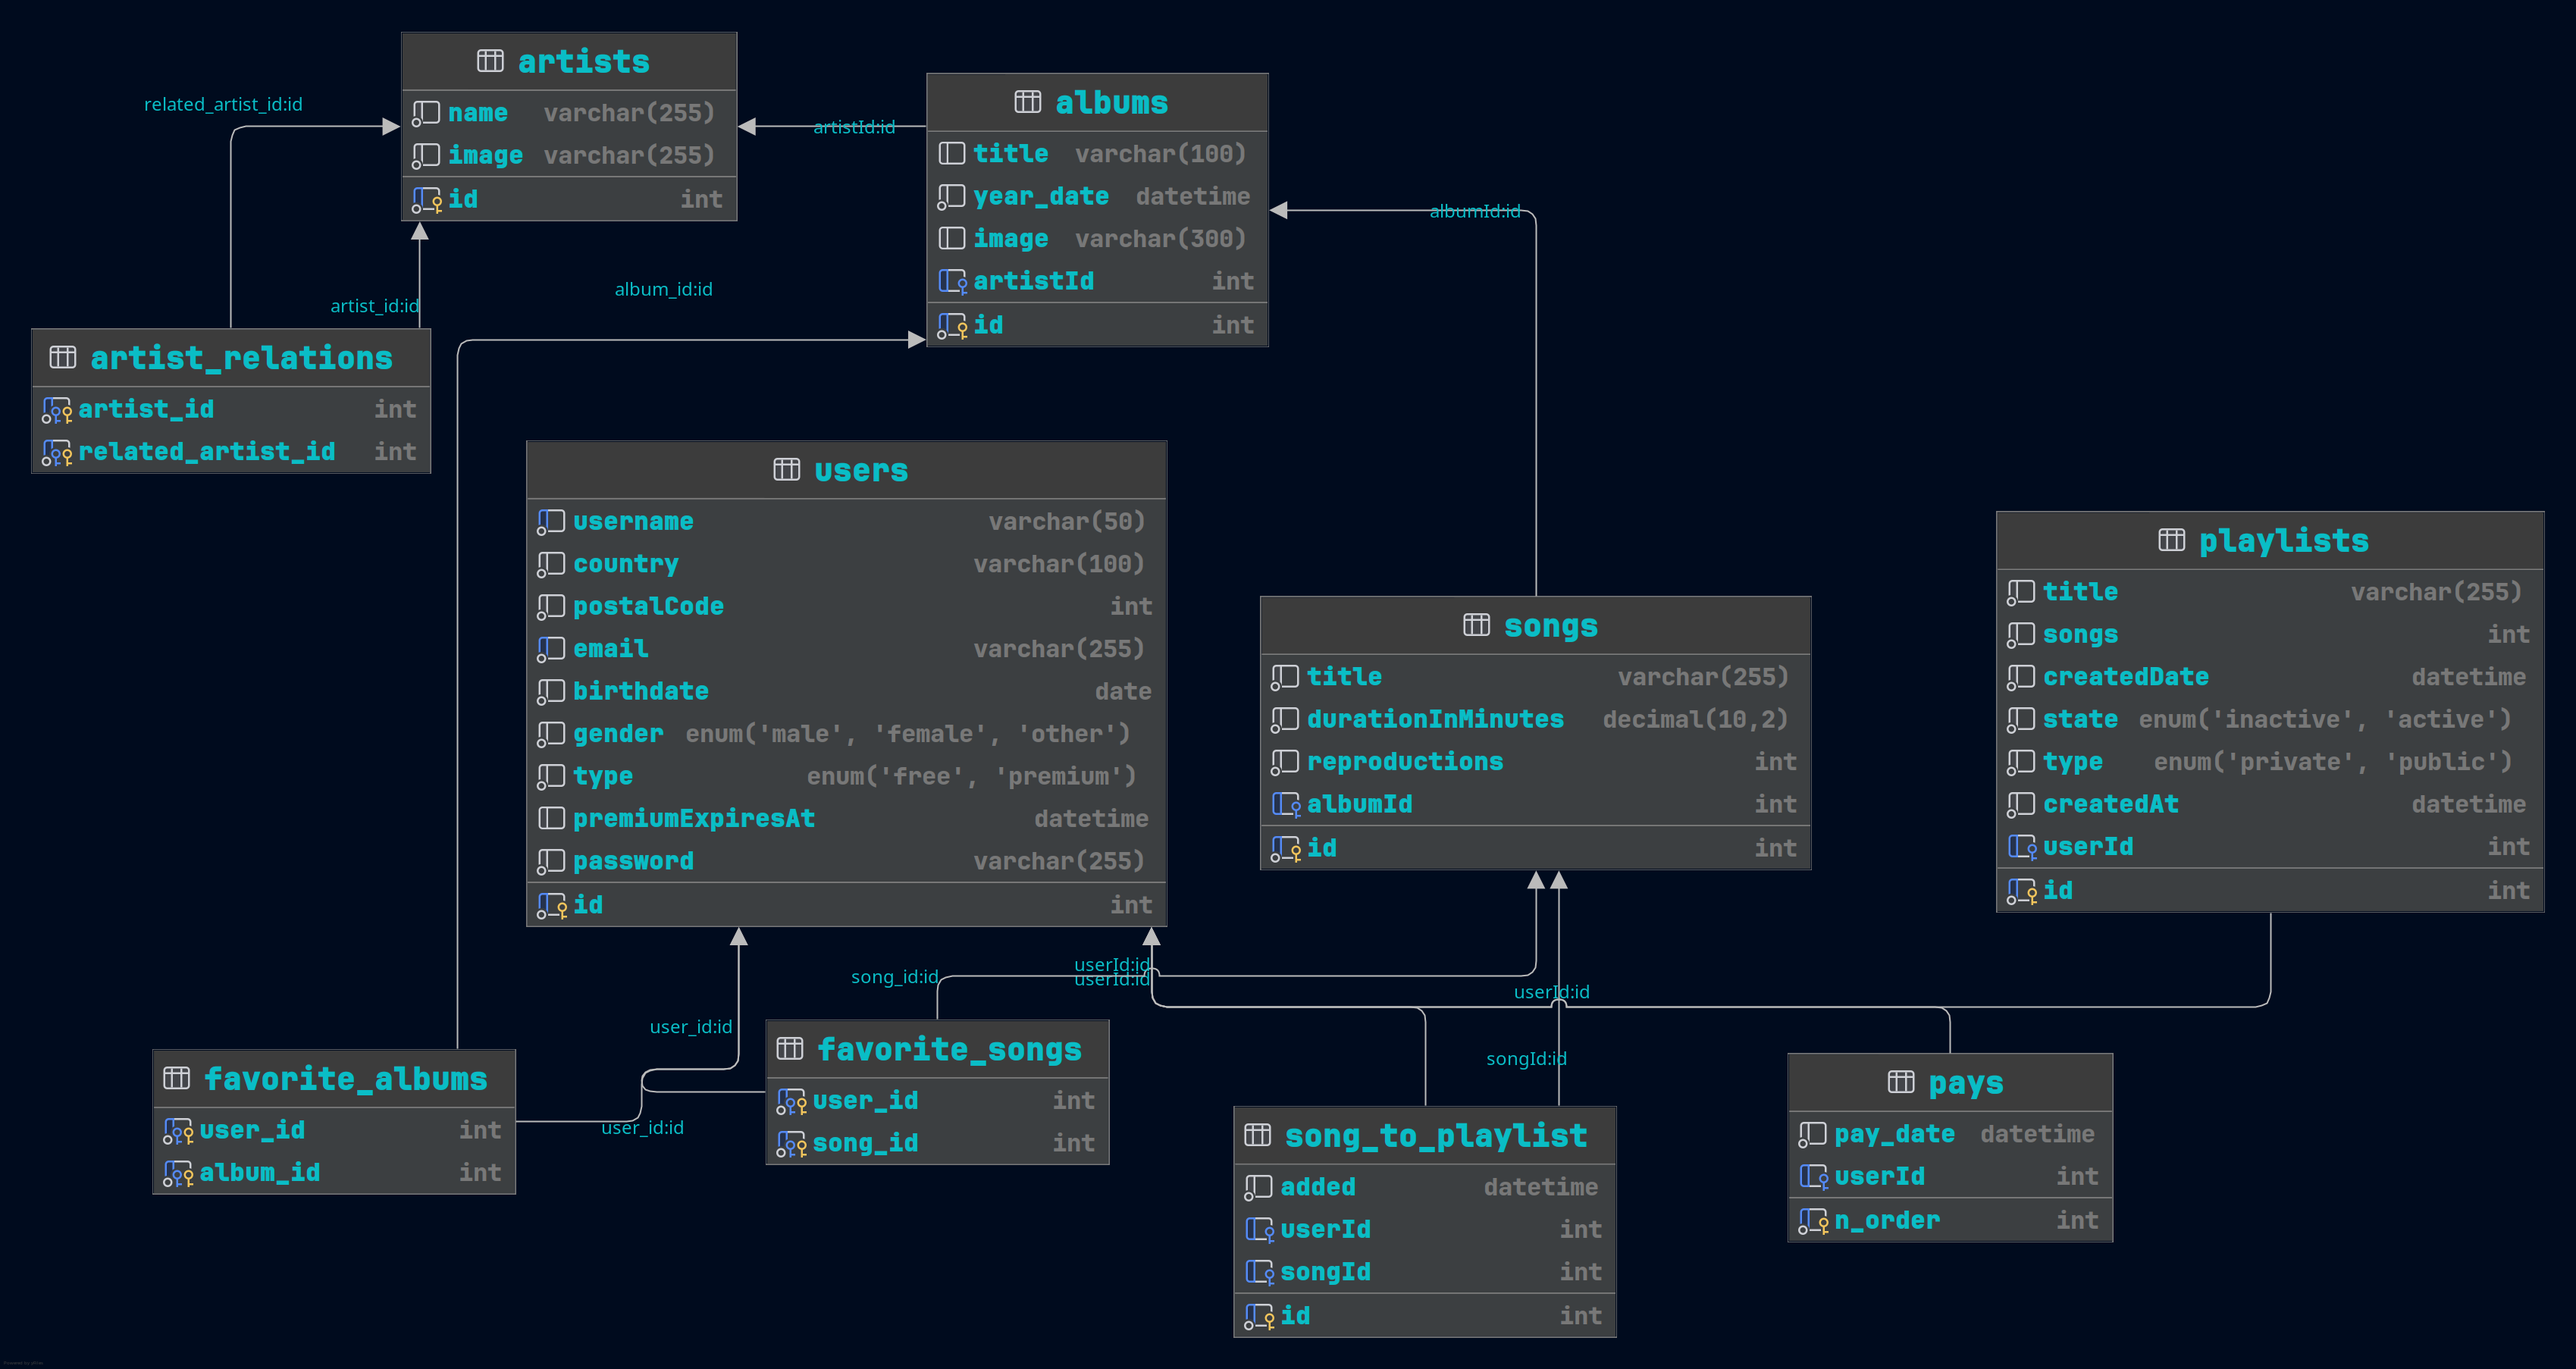
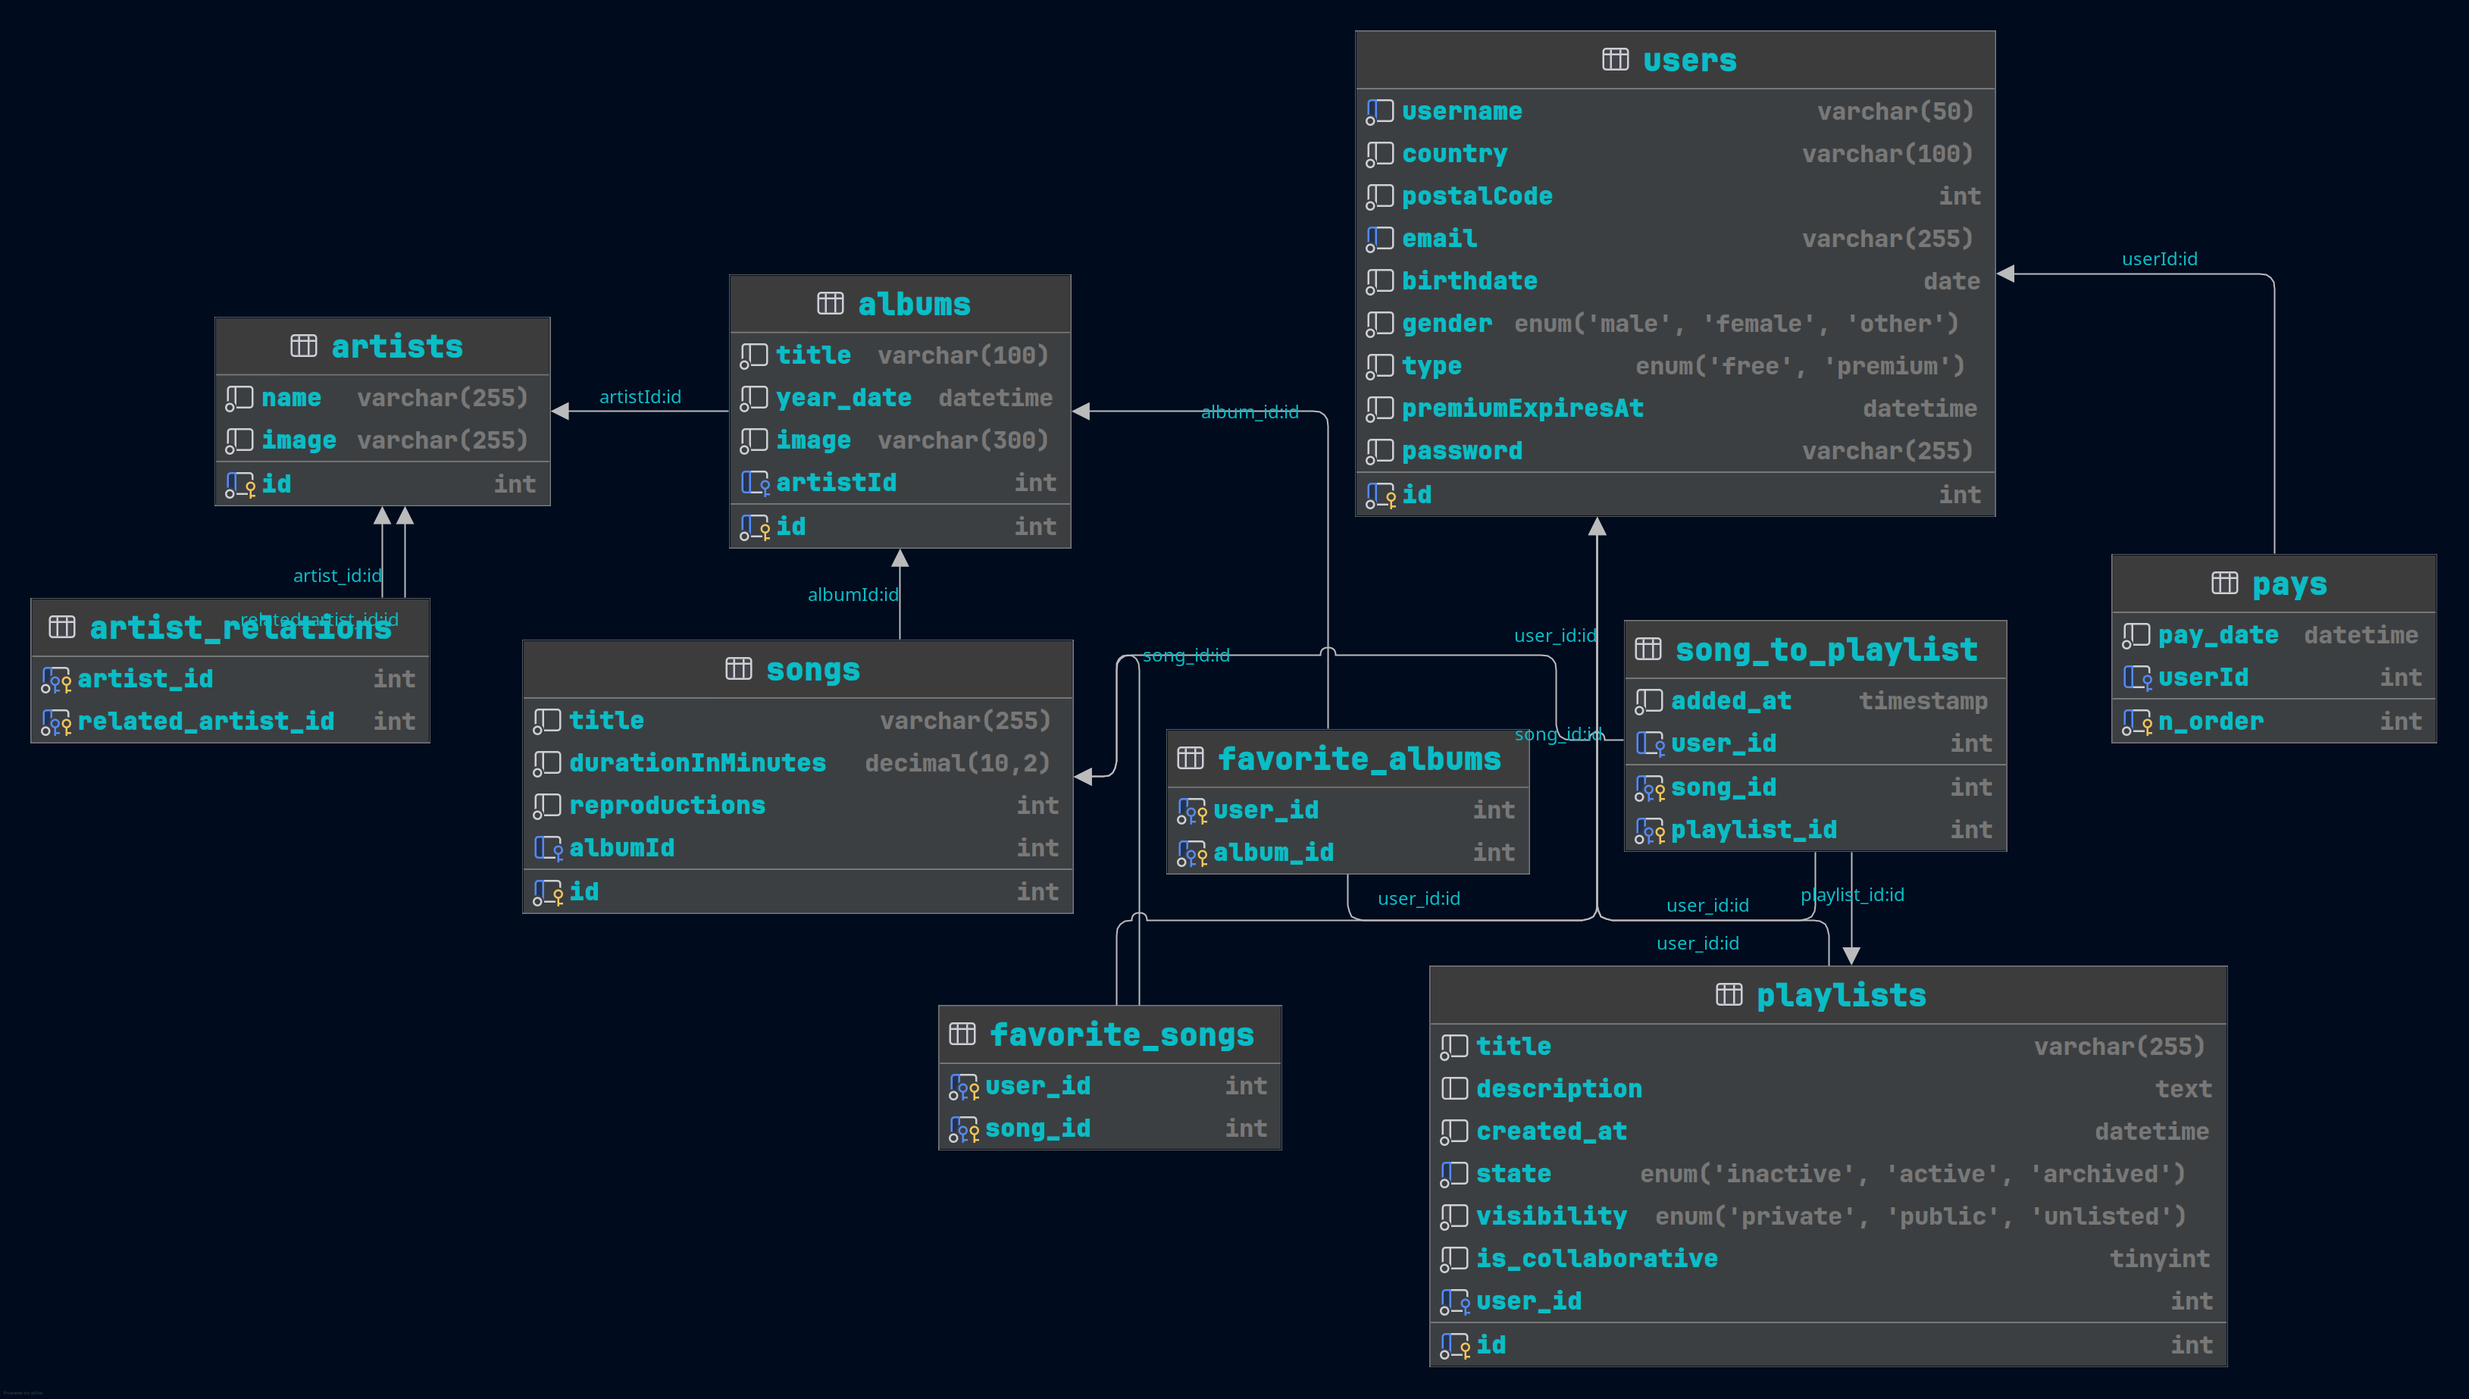
update name columns db

diff --git a/src/data/entity/playlist.entity.ts b/src/data/entity/playlist.entity.ts
@@ -1,18 +1,22 @@
 /* eslint-disable prettier/prettier */
-import { Column, Entity, ManyToOne, PrimaryGeneratedColumn } from 'typeorm';
+import { Column, Entity, ManyToOne, OneToMany, PrimaryGeneratedColumn, Index, JoinColumn } from 'typeorm';
 import { User } from './user.entity';
+import { SongToPlaylist } from './song_to_playlist.entity';
 
-export enum State {
+export enum PlaylistState {
     INACTIVE = 'inactive',
     ACTIVE = 'active',
+    ARCHIVED = 'archived'
 }
 
-export enum Type {
+export enum PlaylistVisibility {
     PRIVATE = 'private',
     PUBLIC = 'public',
+    UNLISTED = 'unlisted'
 }
 
 @Entity('playlists')
+@Index(['createdBy', 'state'])
 export class Playlist {
     @PrimaryGeneratedColumn('increment')
     id: number;
@@ -20,22 +24,26 @@ export class Playlist {
     @Column({ type: 'varchar', length: 255, nullable: false })
     title: string;
 
-    @Column({ type: 'int', nullable: false })
-    songs: number;
+    @Column({ type: 'text', nullable: true })
+    description: string | null;
 
-    @Column({ type: 'datetime', nullable: false, default: () => 'CURRENT_TIMESTAMP' })
-    createdDate: Date;
-
-    @Column({ type: 'enum', enum: State, default: State.ACTIVE })
-    state: State;
-
-    @Column({ type: 'enum', enum: Type, default: Type.PUBLIC })
-    type: string;
-
-    @Column({ type: 'datetime', default: () => 'CURRENT_TIMESTAMP' })
+    @Column({name:'created_at', type: 'datetime', default: () => 'CURRENT_TIMESTAMP' })
     createdAt: Date;
 
-    @ManyToOne(() => User, (user) => user.playlists)
-    user: User;
+    @Column({ type: 'enum', enum: PlaylistState, default: PlaylistState.ACTIVE })
+    state: PlaylistState;
+
+    @Column({ type: 'enum', enum: PlaylistVisibility, default: PlaylistVisibility.PUBLIC })
+    visibility: PlaylistVisibility;
+
+    @Column({ name: 'is_collaborative', type: 'boolean', default: false, })
+    isCollaborative: boolean;
+
+    @ManyToOne(() => User, (user) => user.playlists, { onDelete: 'CASCADE', nullable: false })
+    @JoinColumn({ name: 'user_id' })
+    createdBy: User;
+
+    @OneToMany(() => SongToPlaylist, (songToPlaylist) => songToPlaylist.playlist, { cascade: true })
+    songs: SongToPlaylist[];
 
 }

diff --git a/src/data/entity/song_to_playlist.entity.ts b/src/data/entity/song_to_playlist.entity.ts
@@ -1,22 +1,31 @@
 /* eslint-disable prettier/prettier */
-import { Column, Entity, ManyToOne, PrimaryGeneratedColumn } from "typeorm";
-import { User } from "./user.entity";
+import { Column, Entity, JoinColumn, ManyToOne, PrimaryColumn } from "typeorm";
 import { Song } from "./song.entity";
-
+import { Playlist } from "./playlist.entity";
+import { User } from "./user.entity";
 
 @Entity()
 export class SongToPlaylist {
 
-    @PrimaryGeneratedColumn('increment')
-    id: number;
+    @PrimaryColumn({ name: 'song_id' })
+    songId!: number;
 
-    @ManyToOne(() => User, (user) => user.songToPlaylist)
-    user: User;
+    @PrimaryColumn({ name: 'playlist_id' })
+    playlistId!: number;
 
-    @ManyToOne(() => Song, (song) => song.songToPlaylist)
-    song: Song;
+    @ManyToOne(() => Song, (song) => song.songToPlaylist, { onDelete: 'CASCADE', nullable: false })
+    @JoinColumn({ name: 'song_id', referencedColumnName: 'id' })
+    song!: Song | null;
 
-    @Column({ type: 'datetime', default: () => 'CURRENT_TIMESTAMP' })
-    added: Date;
+    @ManyToOne(() => Playlist, (playlist) => playlist.songs, { onDelete: 'CASCADE', nullable: false })
+    @JoinColumn({ name: 'playlist_id', referencedColumnName: 'id' })
+    playlist!: Playlist | null;
+
+    @ManyToOne(() => User, { onDelete: 'SET NULL', nullable: true })
+    @JoinColumn({ name: 'user_id' })
+    addedBy!: User | null;
+
+    @Column({ name: 'added_at', type: 'timestamp', default: () => 'CURRENT_TIMESTAMP' })
+    addedAt!: Date;
 
 }

diff --git a/src/data/entity/user.entity.ts b/src/data/entity/user.entity.ts
@@ -44,7 +44,7 @@ export class User {
     @Column({ type: 'enum', enum: UserRole, default: UserRole.FREE })
     type: UserRole
 
-    @Column({ type: 'datetime', default: null, nullable: true })
+    @Column({ type: 'datetime', default: null, nullable: false })
     premiumExpiresAt: Date;
 
     @Column({ type: 'varchar', select: false })
@@ -58,19 +58,19 @@ export class User {
         }
     }
 
-    @OneToMany(() => Playlist, (playlists) => playlists.user)
+    @OneToMany(() => Playlist, (playlists) => playlists.createdBy, { cascade: true })
     playlists: Playlist[];
 
-    @OneToMany(() => SongToPlaylist, (songToPlaylist) => songToPlaylist.user)
+    @OneToMany(() => SongToPlaylist, (songToPlaylist) => songToPlaylist.addedBy, { cascade: true })
     songToPlaylist: SongToPlaylist[];
 
-    @OneToMany(() => FavoriteSongs, (favoriteSongs) => favoriteSongs.user)
+    @OneToMany(() => FavoriteSongs, (favoriteSongs) => favoriteSongs.user, { cascade: true })
     favoriteSongs: FavoriteSongs[];
 
-    @OneToMany(() => FavoriteSongs, (favoriteSongs) => favoriteSongs.song)
+    @OneToMany(() => FavoriteSongs, (favoriteSongs) => favoriteSongs.user, { cascade: true })
     favoriteAlbums: FavoriteSongs[];
 
-    @OneToMany(() => Pays, (pays) => pays.user)
+    @OneToMany(() => Pays, (pays) => pays.user, { cascade: true })
     pays: Pays[];
 
 }

diff --git a/src/data/entity/album.entity.ts b/src/data/entity/album.entity.ts
@@ -11,23 +11,23 @@ export class Album {
     @PrimaryGeneratedColumn('increment')
     id: number;
 
-    @Column({ type: 'varchar', length: 100, nullable: true })
+    @Column({ type: 'varchar', length: 100, nullable: false })
     title: string;
 
 
     @Column({ type: 'datetime', default: () => 'CURRENT_TIMESTAMP' })
     year_date: Date;
 
-    @Column({ type: 'varchar', length: 300, nullable: true })
+    @Column({ type: 'varchar', length: 300, nullable: false })
     image: string;
 
-    @ManyToOne(() => Artist, (artist) => artist.albums)
+    @ManyToOne(() => Artist, (artist) => artist.albums, { onDelete: 'CASCADE', nullable: true })
     artist: Artist;
 
-    @OneToMany(() => Song, (song) => song.album)
+    @OneToMany(() => Song, (song) => song.album, { cascade: true })
     songs: Song[];
 
-    @OneToMany(() => FavoriteAlbums, (favoriteAlbums) => favoriteAlbums.album)
+    @OneToMany(() => FavoriteAlbums, (favoriteAlbums) => favoriteAlbums.album, { cascade: true })
     favoriteAlbums: FavoriteAlbums[];
 
 }

diff --git a/src/data/entity/song.entity.ts b/src/data/entity/song.entity.ts
@@ -9,21 +9,21 @@ export class Song {
     @PrimaryGeneratedColumn('increment')
     id: number;
 
-    @Column({ type: 'varchar', length: 255 })
+    @Column({ type: 'varchar', length: 255, nullable: false })
     title: string;
 
-    @Column({ type: 'decimal', precision: 10, scale: 2 })
+    @Column({ type: 'decimal', precision: 10, scale: 2, nullable: false })
     durationInMinutes: number;
 
-    @Column({ type: 'int', default: 0 })
+    @Column({ type: 'int', default: 0, nullable: false })
     reproductions: number;
 
     @ManyToOne(() => Album, (album) => album.songs)
     album: Album;
 
-    @OneToMany(() => FavoriteSongs, (favoriteSongs) => favoriteSongs.song)
+    @OneToMany(() => FavoriteSongs, (favoriteSongs) => favoriteSongs.song, { cascade: true })
     favoriteSongs: FavoriteSongs[];
 
-    @OneToMany(() => SongToPlaylist, (songToPlaylist) => songToPlaylist.song)
+    @OneToMany(() => SongToPlaylist, (songToPlaylist) => songToPlaylist.song, { cascade: true })
     songToPlaylist: SongToPlaylist[];
 }

diff --git a/src/data/entity/favorite_albums.entity.ts b/src/data/entity/favorite_albums.entity.ts
@@ -6,16 +6,16 @@ import { User } from "./user.entity";
 @Entity({ name: 'favorite_albums' })
 export class FavoriteAlbums {
     @PrimaryColumn({ type: 'int' })
-    user_id: number;
+    user_id!: number;
 
     @PrimaryColumn({ type: 'int' })
-    album_id: number;
+    album_id!: number;
 
-    @ManyToOne(() => Album, (album) => album.favoriteAlbums)
+    @ManyToOne(() => Album, (album) => album.favoriteAlbums, { onDelete: 'CASCADE', nullable: true })
     @JoinColumn({ name: 'album_id', referencedColumnName: 'id' })
     album: Album;
 
-    @ManyToOne(() => User, (user) => user.favoriteAlbums)
+    @ManyToOne(() => User, (user) => user.favoriteAlbums, { onDelete: 'CASCADE', nullable: true })
     @JoinColumn({ name: 'user_id', referencedColumnName: 'id' })
     user: User;
 }

diff --git a/src/data/entity/artista.entity.ts b/src/data/entity/artista.entity.ts
@@ -8,13 +8,13 @@ export class Artist {
     @PrimaryGeneratedColumn('increment')
     id: number;
 
-    @Column({ type: 'varchar', length: 255 })
+    @Column({ type: 'varchar', length: 255, nullable: false })
     name: string;
 
-    @Column({ type: 'varchar', length: 255 })
+    @Column({ type: 'varchar', length: 255, nullable: false })
     image: string;
 
-    @OneToMany(() => Album, (album) => album.artist)
+    @OneToMany(() => Album, (album) => album.artist, { cascade: true })
     albums: Album[];
 
     @ManyToMany(() => Artist, (artist) => artist.relations_artists)

diff --git a/src/data/entity/favorite_songs.entity.ts b/src/data/entity/favorite_songs.entity.ts
@@ -14,11 +14,11 @@ export class FavoriteSongs {
     song_id: number;
 
     @JoinColumn({ name: 'user_id', referencedColumnName: 'id' })
-    @ManyToOne(() => User, (user) => user.favoriteSongs)
+    @ManyToOne(() => User, (user) => user.favoriteSongs, { onDelete: 'CASCADE', nullable: true })
     user: User;
 
     @JoinColumn({ name: 'song_id', referencedColumnName: 'id' })
-    @ManyToOne(() => Song, (song) => song.favoriteSongs)
+    @ManyToOne(() => Song, (song) => song.favoriteSongs, { onDelete: 'CASCADE', nullable: true })
     song: Song;
 
 }

diff --git a/src/data/entity/pays.entity.ts b/src/data/entity/pays.entity.ts
@@ -8,7 +8,7 @@ export class Pays {
     @PrimaryGeneratedColumn('increment')
     n_order: number;
 
-    @ManyToOne(() => User, (user) => user.pays)
+    @ManyToOne(() => User, (user) => user.pays, { onDelete: 'CASCADE', nullable: true })
     user: User;
 
     @Column({ type: 'datetime', default: () => 'CURRENT_TIMESTAMP' })

diff --git a/src/data/user/user.controller.ts b/src/data/user/user.controller.ts
@@ -1,5 +1,3 @@
-/* eslint-disable @typescript-eslint/unbound-method */
-/* eslint-disable @typescript-eslint/no-unsafe-assignment */
 /* eslint-disable prettier/prettier */
 import { Body, Controller, Get, Headers, Post, Req, Res, UseGuards } from '@nestjs/common';
 import { UserService } from './user.service';
